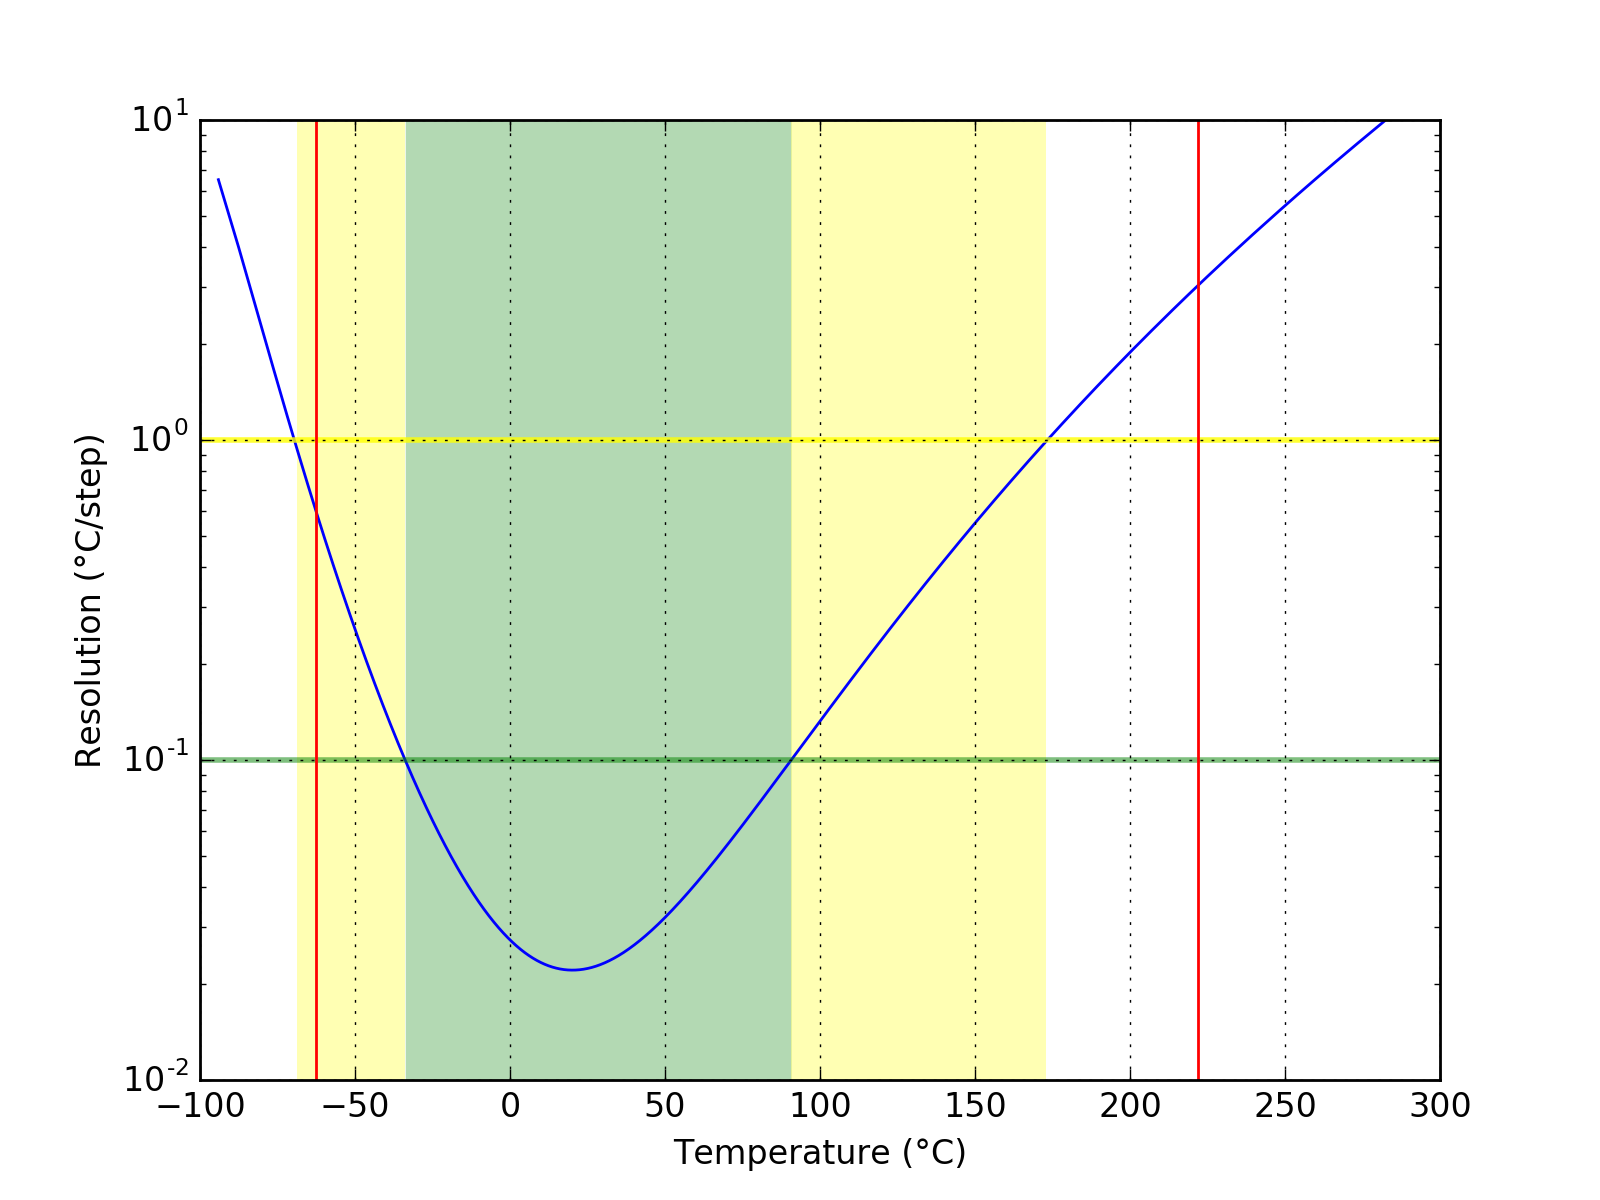
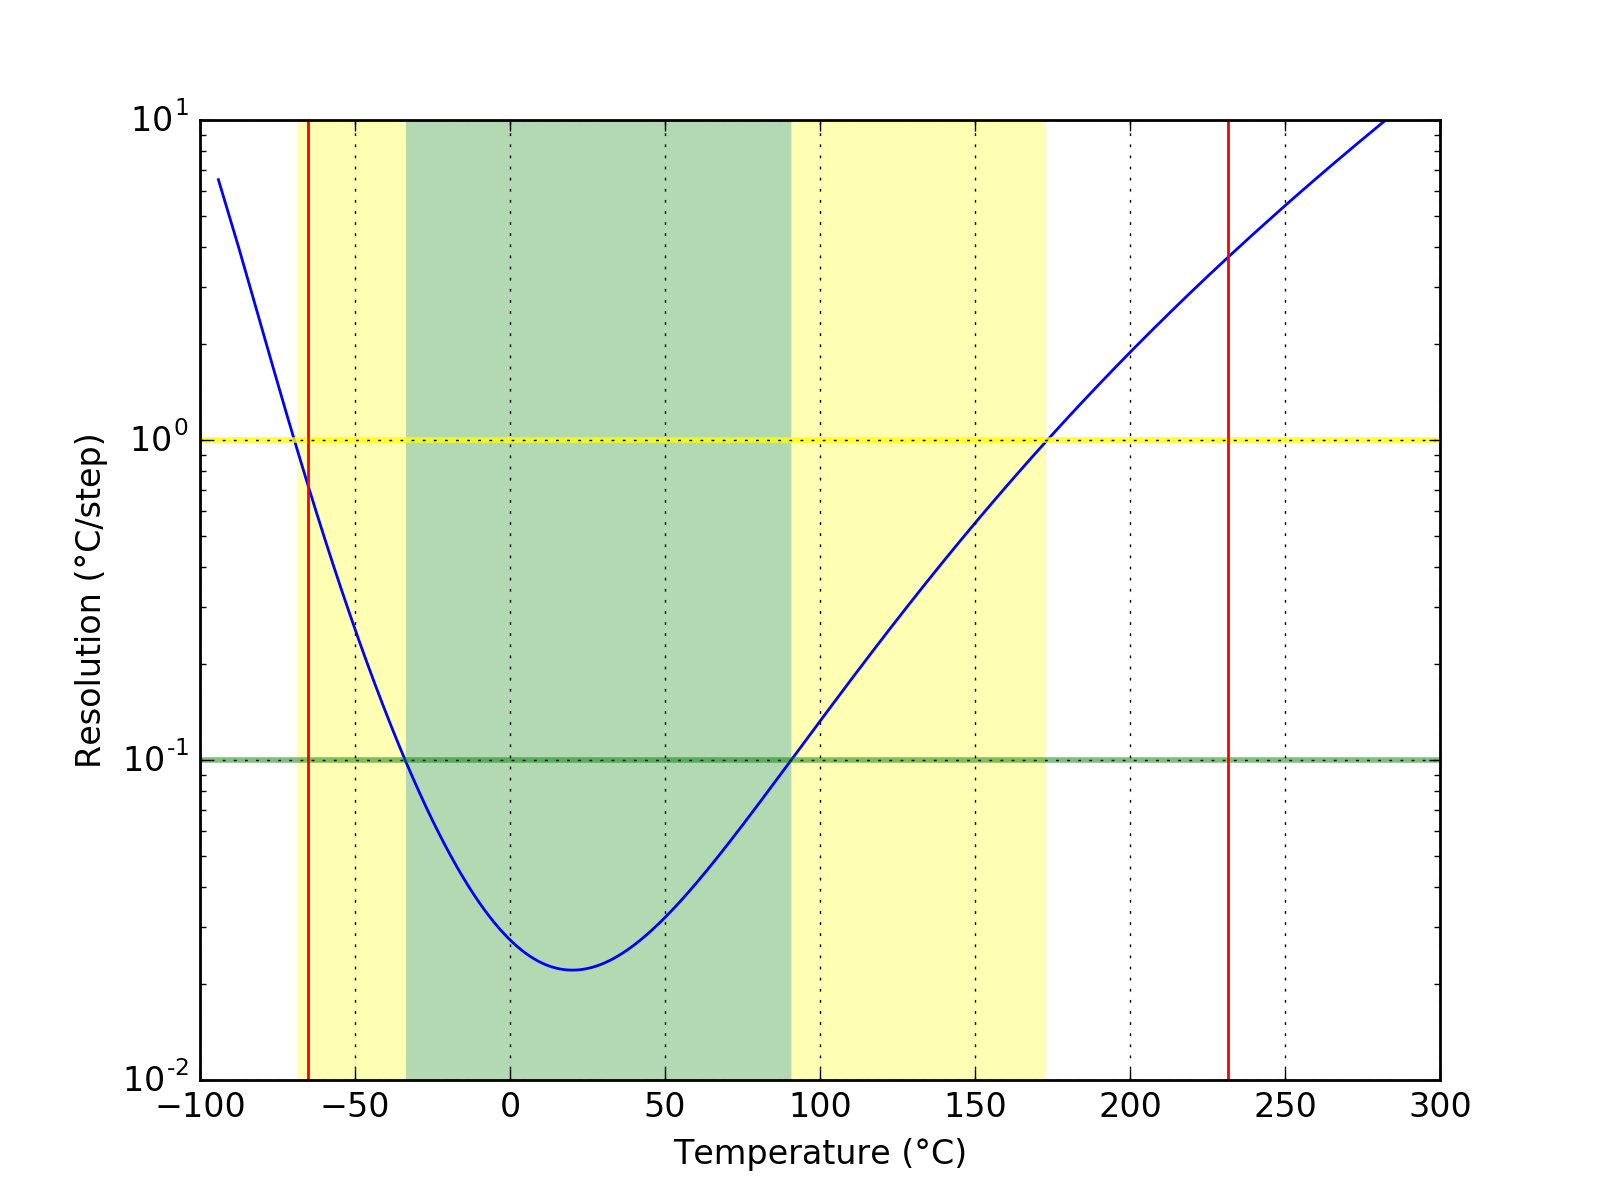
Updated limits and swapped min <-> max once again

Changed region(s): [[0.1875, 0.1233, 0.2188, 0.8942]]

diff --git a/software/usr/share/doc/WLANThermo/probedata/Obsolete/MAVERICK/Maverick ET-732,733,735.md b/software/usr/share/doc/WLANThermo/probedata/Obsolete/MAVERICK/Maverick ET-732,733,735.md
@@ -11,11 +11,11 @@ Resistance at 0°C | R<sub>25</sub> | 3819.00k
 Resistance at 25°C | R<sub>25</sub> | 990.02k
 Resistance at 85°C | R<sub>25</sub> | 74.45k
 Beta 25°C to 85°C | B<sub>25/85</sub>| 4605K
-Minimum measurable temperature | | 328.0°C
-Minimum high-res temperature | | 168.8°C
+Minimum measurable temperature | | -18.6°C
+Minimum high-res temperature | | 27.9°C
 Highest resolution || 2.75e-02°C/step at 90.6°C
-Maximum high-res temperature | | 27.9°C
-Maximum measurable temperature | | -15.1°C
+Maximum high-res temperature | | 168.8°C
+Maximum measurable temperature | | 338.8°C
 
 ### Probe curve data
 ![Probe fit chart](Maverick ET-732,733,735_curve.png)

diff --git a/software/usr/share/doc/WLANThermo/probedata/ET-73/Maverick ET-72,73.md b/software/usr/share/doc/WLANThermo/probedata/ET-73/Maverick ET-72,73.md
@@ -11,11 +11,11 @@ Resistance at 0°C | R<sub>25</sub> | 560.28k
 Resistance at 25°C | R<sub>25</sub> | 199.07k
 Resistance at 85°C | R<sub>25</sub> | 27.35k
 Beta 25°C to 85°C | B<sub>25/85</sub>| 3532K
-Minimum measurable temperature | | 357.7°C
-Minimum high-res temperature | | 140.7°C
+Minimum measurable temperature | | -57.0°C
+Minimum high-res temperature | | -7.8°C
 Highest resolution || 3.07e-02°C/step at 57.0°C
-Maximum high-res temperature | | -7.8°C
-Maximum measurable temperature | | -53.5°C
+Maximum high-res temperature | | 140.7°C
+Maximum measurable temperature | | 373.1°C
 
 ### Probe curve data
 ![Probe fit chart](Maverick ET-72,73_curve.png)

diff --git a/software/usr/share/doc/WLANThermo/probedata/ThermoWorks/ThermoWorks.md b/software/usr/share/doc/WLANThermo/probedata/ThermoWorks/ThermoWorks.md
@@ -11,11 +11,11 @@ Resistance at 0°C | R<sub>25</sub> | 325.18k
 Resistance at 25°C | R<sub>25</sub> | 97.33k
 Resistance at 85°C | R<sub>25</sub> | 9.94k
 Beta 25°C to 85°C | B<sub>25/85</sub>| 4060K
-Minimum measurable temperature | | 248.1°C
-Minimum high-res temperature | | 108.5°C
+Minimum measurable temperature | | -56.7°C
+Minimum high-res temperature | | -21.1°C
 Highest resolution || 2.36e-02°C/step at 35.5°C
-Maximum high-res temperature | | -21.1°C
-Maximum measurable temperature | | -53.8°C
+Maximum high-res temperature | | 108.5°C
+Maximum measurable temperature | | 258.2°C
 
 ### Probe curve data
 ![Probe fit chart](ThermoWorks_curve.png)

diff --git a/software/usr/share/doc/WLANThermo/probedata/100K3950/100K3950.md b/software/usr/share/doc/WLANThermo/probedata/100K3950/100K3950.md
@@ -11,11 +11,11 @@ Resistance at 0°C | R<sub>25</sub> | 323.73k
 Resistance at 25°C | R<sub>25</sub> | 101.15k
 Resistance at 85°C | R<sub>25</sub> | 10.82k
 Beta 25°C to 85°C | B<sub>25/85</sub>| 3978K
-Minimum measurable temperature | | 250.1°C
-Minimum high-res temperature | | 111.1°C
+Minimum measurable temperature | | -59.4°C
+Minimum high-res temperature | | -21.1°C
 Highest resolution || 2.45e-02°C/step at 37.0°C
-Maximum high-res temperature | | -21.1°C
-Maximum measurable temperature | | -56.3°C
+Maximum high-res temperature | | 111.1°C
+Maximum measurable temperature | | 259.9°C
 
 ### Probe curve data
 ![Probe fit chart](100K3950_curve.png)

diff --git a/software/usr/share/doc/WLANThermo/probedata/MAVERICK/MAVERICK.md b/software/usr/share/doc/WLANThermo/probedata/MAVERICK/MAVERICK.md
@@ -11,11 +11,11 @@ Resistance at 0°C | R<sub>25</sub> | 3903.35k
 Resistance at 25°C | R<sub>25</sub> | 1001.96k
 Resistance at 85°C | R<sub>25</sub> | 73.65k
 Beta 25°C to 85°C | B<sub>25/85</sub>| 4646K
-Minimum measurable temperature | | 322.6°C
-Minimum high-res temperature | | 168.1°C
+Minimum measurable temperature | | -18.2°C
+Minimum high-res temperature | | 28.0°C
 Highest resolution || 2.72e-02°C/step at 90.3°C
-Maximum high-res temperature | | 28.0°C
-Maximum measurable temperature | | -14.7°C
+Maximum high-res temperature | | 168.1°C
+Maximum measurable temperature | | 333.0°C
 
 ### Probe curve data
 ![Probe fit chart](MAVERICK_curve.png)

diff --git a/software/usr/share/doc/WLANThermo/probedata/PERFEKTION/PERFEKTION.md b/software/usr/share/doc/WLANThermo/probedata/PERFEKTION/PERFEKTION.md
@@ -11,11 +11,11 @@ Resistance at 0°C | R<sub>25</sub> | 690.16k
 Resistance at 25°C | R<sub>25</sub> | 199.69k
 Resistance at 85°C | R<sub>25</sub> | 18.29k
 Beta 25°C to 85°C | B<sub>25/85</sub>| 4254K
-Minimum measurable temperature | | 262.7°C
-Minimum high-res temperature | | 127.0°C
+Minimum measurable temperature | | -46.3°C
+Minimum high-res temperature | | -6.2°C
 Highest resolution || 2.48e-02°C/step at 52.8°C
-Maximum high-res temperature | | -6.2°C
-Maximum measurable temperature | | -43.1°C
+Maximum high-res temperature | | 127.0°C
+Maximum measurable temperature | | 272.1°C
 
 ### Probe curve data
 ![Probe fit chart](PERFEKTION_curve.png)

diff --git a/software/usr/share/doc/WLANThermo/probedata/SmokeMAX/SmokeMAX.md b/software/usr/share/doc/WLANThermo/probedata/SmokeMAX/SmokeMAX.md
@@ -11,11 +11,11 @@ Resistance at 0°C | R<sub>25</sub> | 327.14k
 Resistance at 25°C | R<sub>25</sub> | 99.45k
 Resistance at 85°C | R<sub>25</sub> | 10.40k
 Beta 25°C to 85°C | B<sub>25/85</sub>| 4018K
-Minimum measurable temperature | | 252.1°C
-Minimum high-res temperature | | 109.8°C
+Minimum measurable temperature | | -57.4°C
+Minimum high-res temperature | | -21.0°C
 Highest resolution || 2.40e-02°C/step at 36.1°C
-Maximum high-res temperature | | -21.0°C
-Maximum measurable temperature | | -54.4°C
+Maximum high-res temperature | | 109.8°C
+Maximum measurable temperature | | 262.3°C
 
 ### Probe curve data
 ![Probe fit chart](SmokeMAX_curve.png)

diff --git a/software/usr/share/doc/WLANThermo/probedata/100K6A1B/100K6A1B.md b/software/usr/share/doc/WLANThermo/probedata/100K6A1B/100K6A1B.md
@@ -11,11 +11,11 @@ Resistance at 0°C | R<sub>25</sub> | 351.04k
 Resistance at 25°C | R<sub>25</sub> | 99.72k
 Resistance at 85°C | R<sub>25</sub> | 9.13k
 Beta 25°C to 85°C | B<sub>25/85</sub>| 4254K
-Minimum measurable temperature | | 231.5°C
-Minimum high-res temperature | | 106.8°C
+Minimum measurable temperature | | -54.0°C
+Minimum high-res temperature | | -19.6°C
 Highest resolution || 2.26e-02°C/step at 36.0°C
-Maximum high-res temperature | | -19.6°C
-Maximum measurable temperature | | -51.1°C
+Maximum high-res temperature | | 106.8°C
+Maximum measurable temperature | | 240.5°C
 
 ### Probe curve data
 ![Probe fit chart](100K6A1B_curve.png)

diff --git a/software/usr/share/doc/WLANThermo/probedata/Untested/Cappec/Cappec.md b/software/usr/share/doc/WLANThermo/probedata/Untested/Cappec/Cappec.md
@@ -11,11 +11,11 @@ Resistance at 0°C | R<sub>25</sub> | 332.23k
 Resistance at 25°C | R<sub>25</sub> | 100.44k
 Resistance at 85°C | R<sub>25</sub> | 10.30k
 Beta 25°C to 85°C | B<sub>25/85</sub>| 4054K
-Minimum measurable temperature | | 247.3°C
-Minimum high-res temperature | | 109.7°C
+Minimum measurable temperature | | -57.2°C
+Minimum high-res temperature | | -20.6°C
 Highest resolution || 2.39e-02°C/step at 36.5°C
-Maximum high-res temperature | | -20.6°C
-Maximum measurable temperature | | -54.2°C
+Maximum high-res temperature | | 109.7°C
+Maximum measurable temperature | | 257.2°C
 
 ### Probe curve data
 ![Probe fit chart](Cappec_curve.png)

diff --git a/software/usr/share/doc/WLANThermo/probedata/iGrill2/iGrill2.md b/software/usr/share/doc/WLANThermo/probedata/iGrill2/iGrill2.md
@@ -11,11 +11,11 @@ Resistance at 0°C | R<sub>25</sub> | 329.32k
 Resistance at 25°C | R<sub>25</sub> | 99.40k
 Resistance at 85°C | R<sub>25</sub> | 10.18k
 Beta 25°C to 85°C | B<sub>25/85</sub>| 4056K
-Minimum measurable temperature | | 247.1°C
-Minimum high-res temperature | | 109.3°C
+Minimum measurable temperature | | -57.2°C
+Minimum high-res temperature | | -20.8°C
 Highest resolution || 2.38e-02°C/step at 36.2°C
-Maximum high-res temperature | | -20.8°C
-Maximum measurable temperature | | -54.2°C
+Maximum high-res temperature | | 109.3°C
+Maximum measurable temperature | | 256.9°C
 
 ### Probe curve data
 ![Probe fit chart](iGrill2_curve.png)

diff --git a/software/usr/share/doc/WLANThermo/probedata/ET-735/ET-735.md b/software/usr/share/doc/WLANThermo/probedata/ET-735/ET-735.md
@@ -11,11 +11,11 @@ Resistance at 0°C | R<sub>25</sub> | 4688.76k
 Resistance at 25°C | R<sub>25</sub> | 994.17k
 Resistance at 85°C | R<sub>25</sub> | 54.63k
 Beta 25°C to 85°C | B<sub>25/85</sub>| 5164K
-Minimum measurable temperature | | 289.6°C
-Minimum high-res temperature | | 155.5°C
+Minimum measurable temperature | | -13.3°C
+Minimum high-res temperature | | 24.7°C
 Highest resolution || 2.40e-02°C/step at 82.5°C
-Maximum high-res temperature | | 24.7°C
-Maximum measurable temperature | | -10.3°C
+Maximum high-res temperature | | 155.5°C
+Maximum measurable temperature | | 299.1°C
 
 ### Probe curve data
 ![Probe fit chart](ET-735_curve.png)

diff --git a/software/usr/share/doc/WLANThermo/probedata/Santos/Santos.md b/software/usr/share/doc/WLANThermo/probedata/Santos/Santos.md
@@ -11,11 +11,11 @@ Resistance at 0°C | R<sub>25</sub> | 728.04k
 Resistance at 25°C | R<sub>25</sub> | 200.48k
 Resistance at 85°C | R<sub>25</sub> | 17.44k
 Beta 25°C to 85°C | B<sub>25/85</sub>| 4346K
-Minimum measurable temperature | | 264.7°C
-Minimum high-res temperature | | 125.3°C
+Minimum measurable temperature | | -43.4°C
+Minimum high-res temperature | | -5.9°C
 Highest resolution || 2.42e-02°C/step at 51.7°C
-Maximum high-res temperature | | -5.9°C
-Maximum measurable temperature | | -40.4°C
+Maximum high-res temperature | | 125.3°C
+Maximum measurable temperature | | 274.6°C
 
 ### Probe curve data
 ![Probe fit chart](Santos_curve.png)
